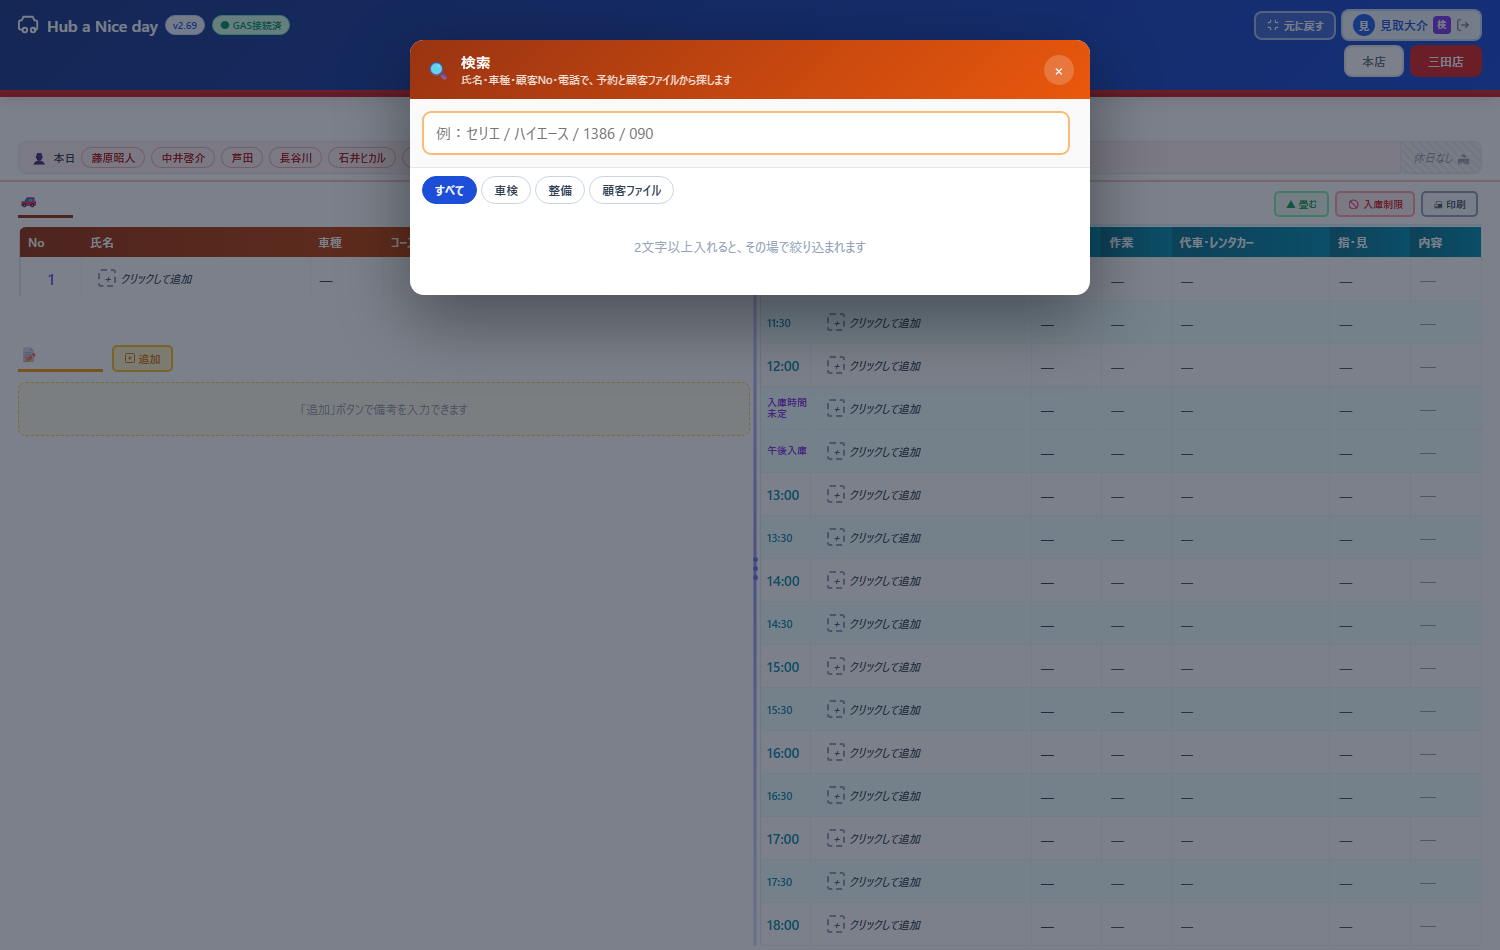
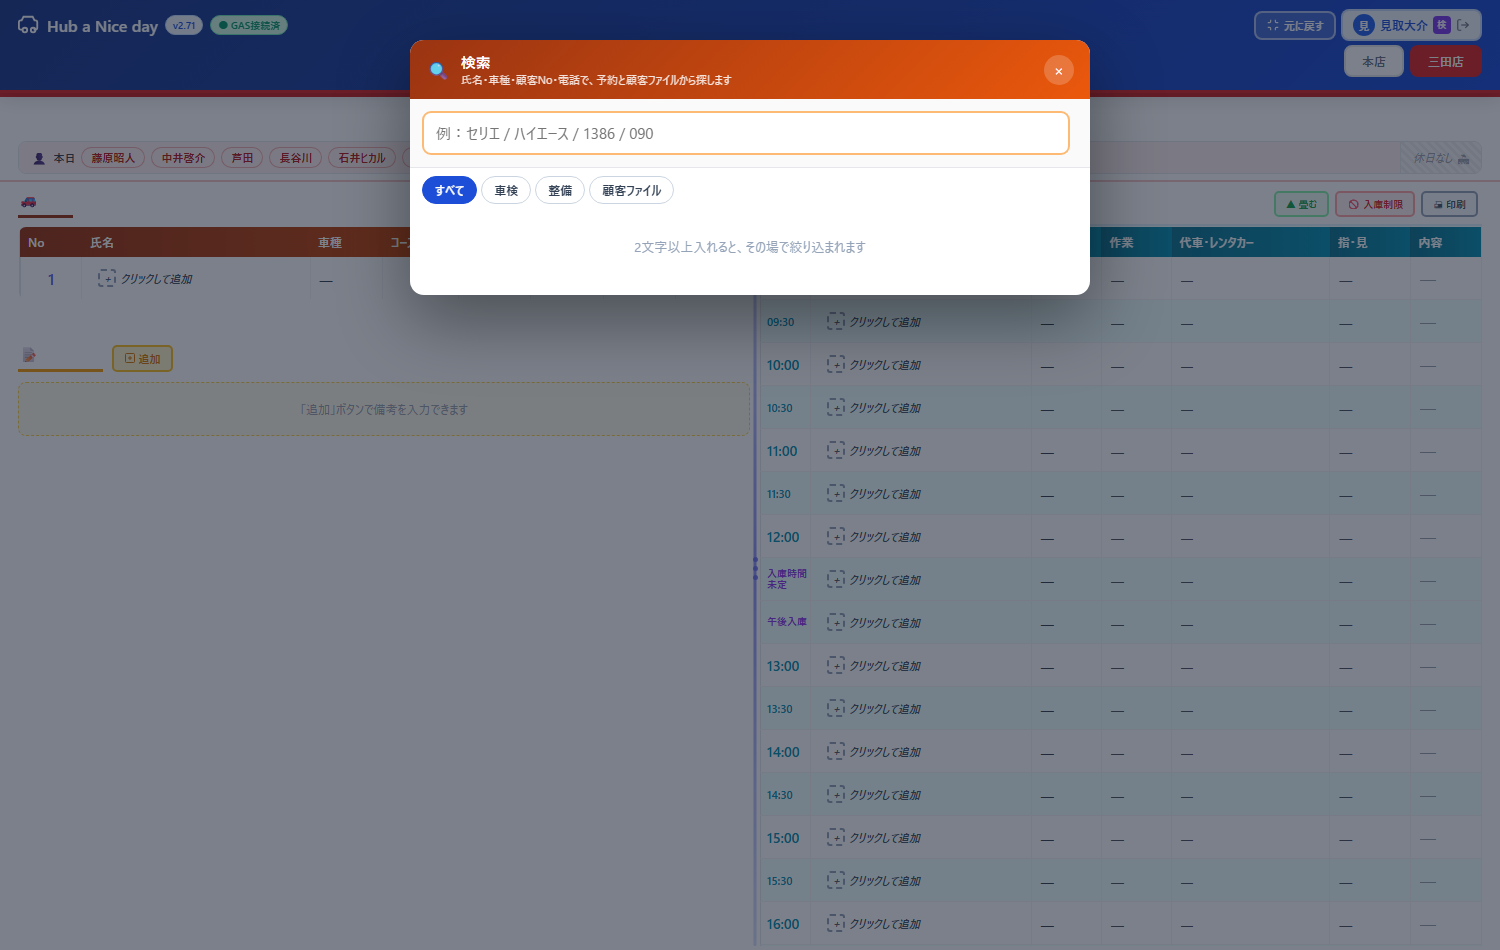
v2.71 タブの名前から「v1.0」を外す（Hub a Nice Day [テスト版]／メインは Hub a Nice Day）。port_to_main のタイトル規則も追従

diff --git a/index_dev.html b/index_dev.html
@@ -4,7 +4,7 @@
 <head>
   <meta charset="UTF-8" />
   <meta name="viewport" content="width=device-width, initial-scale=1.0, viewport-fit=cover" />
-  <title>Hub a Nice Day v1.0 [テスト版]</title>
+  <title>Hub a Nice Day [テスト版]</title>
   <meta name="theme-color" content="#1E3A5F" />
   <meta name="mobile-web-app-capable" content="yes" />
   <meta name="apple-mobile-web-app-capable" content="yes" />
@@ -22,7 +22,7 @@
     // 開きっぱなしのタブが旧コードのまま動き続けるのを防ぐ。画面復帰時と定期に自分自身を
     // no-store+クエリ付きで取得し、__APP_BUILD が変わっていれば「更新」バナーを表示する。
     // 本番デプロイ時は port_to_main.js が __APP_BUILD を自動更新する（手動更新不要）。
-    window.__APP_BUILD='build-1789999282865';
+    window.__APP_BUILD='build-1790035323464';
     (function(){
       var RUNNING=window.__APP_BUILD, shown=false, checking=false;
       function runningVer(){
@@ -121,7 +121,7 @@
 const { useState, useEffect, useLayoutEffect, useRef, useCallback, memo, useMemo } = React;
 
 // ★ バージョン管理：アップデートのたびにここだけ変更する
-const APP_VERSION = '2.70';
+const APP_VERSION = '2.71';
 // 本人認証を必須にするか。false の間は従来どおり名前を選ぶだけで入れる（移行期間）。
 //   false … 全員が今までどおり使える。端末の登録（＋スタッフを追加）は先にできる。
 //   true  … その端末で本人確認を済ませた人しかログイン画面に出ない。

diff --git a/customers.html b/customers.html
@@ -20,7 +20,7 @@
   // 開きっぱなしのタブが旧コードのまま動き続けるのを防ぐ。画面復帰時と定期に自分自身を
   // no-store+クエリ付きで取得し、__APP_BUILD が変わっていれば「更新」バナーを表示する。
   // 本番デプロイ時は port_to_main.js が __APP_BUILD を自動更新する（手動更新不要）。
-  window.__APP_BUILD='build-1789999282865';
+  window.__APP_BUILD='build-1790035323464';
   (function(){
     var RUNNING=window.__APP_BUILD, shown=false, checking=false;
     function runningVer(){
@@ -141,7 +141,7 @@ const hubRenew = async name => {};
 // index側の全画面オーバーレイ（iframe）内で開かれているか。埋め込み時は
 // 「スケジュールに戻る」がページ遷移ではなく親へのpostMessage（オーバーレイ閉鎖）になる。
 const IS_EMBED=(()=>{try{return window.self!==window.top;}catch(e){return true;}})();
-const APP_VERSION='2.70'; // 表示用バージョン。更新ごとに上げる（軽微+0.01／大型は整数を上げる）。index_dev.htmlと揃える
+const APP_VERSION='2.71'; // 表示用バージョン。更新ごとに上げる（軽微+0.01／大型は整数を上げる）。index_dev.htmlと揃える
 const storKey=(base,sid)=>`${STOR}${sid}-${base}`;
 const CHUNK_SIZE=100;
 // ファイル名をGASキーに使える形に変換

diff --git a/mobile.html b/mobile.html
@@ -17,7 +17,7 @@
   // 画面復帰時と定期に自分自身をno-storeで取得し、__APP_BUILDが変わっていれば更新バナーを表示する。
   // タップ時は cache:'reload' で新HTMLをHTTPキャッシュへ焼き直してから reload するので、確実に新版になる
   // （アプリを消したりURLを打ち直す必要はない）。本番デプロイ時は port_to_main.js が __APP_BUILD を自動更新する。
-  window.__APP_BUILD='build-1789999282865';
+  window.__APP_BUILD='build-1790035323464';
   (function(){
     var RUNNING=window.__APP_BUILD, shown=false, checking=false;
     function runningVer(){
@@ -90,7 +90,7 @@ input,select,textarea{font-family:inherit;font-size:16px;}
 <script id="app-jsx" type="text/plain">
 const {useState,useEffect,useCallback,useMemo,useRef,memo}=React;
 // ★ バージョン管理：システム全体で1つ。変更のたびにindex_dev.htmlのAPP_VERSIONと同値で0.01上げる
-const MOBILE_VERSION='2.70';
+const MOBILE_VERSION='2.71';
 // 本人認証を必須にするか。index_dev.html の AUTH_REQUIRED と必ず同じ値にすること。
 //   false … 従来どおり番号を打てば入れる（移行期間）。登録の入口だけ増える。
 //   true  … この端末で本人確認を済ませた人しか入れない。

diff --git a/admin.html b/admin.html
@@ -218,7 +218,7 @@ td.act{text-align:right;white-space:nowrap}
 //  この画面を開けるのは、許可簿（Firestore の meta/allowed）で role=admin の人だけ。
 //  ログインは Firebase Authentication のメールリンク（2026-09-18〜）。判定は Firestore のルールが行う。画面の申告は信用しない。
 // =====================================================================
-var APP_VERSION = '2.70';
+var APP_VERSION = '2.71';
 var GAS_URL     = 'https://script.google.com/macros/s/AKfycbyNE1eVKjibSPLEA0HrVZI8NxEFKWQfMYQ6cKoM1Gznauy9AhfZqHzgs1zzMaxXnQ1_/exec';
 // 環境の切り替え（2026-09-15）。この1ファイルで本番とDEVの両方を扱う。
 //   既定はDEV（安全側）。URLに ?env=prod が付いている時だけ本番のデータを扱う。

diff --git a/port_to_main.js b/port_to_main.js
@@ -23,7 +23,7 @@ const INDEX_RULES = [
   // 2026-09-18：本番も Firestore＋Firebase Auth（BACKEND='firebase'・AUTH_REQUIRED=true）。変換ルールは無し。
   //   本番のデータは fb_migrate.js --prod --write で写してから移植する（GAS 側はその時点で控えになる）。
   // タイトル
-  ['<title>Hub a Nice Day v1.0 [テスト版]</title>', '<title>Hub a Nice Day v1.0</title>', 1],
+  ['<title>Hub a Nice Day [テスト版]</title>', '<title>Hub a Nice Day</title>', 1],
   // 環境識別の配色: 全体背景・ログイン画面（オレンジ→青）
   ['linear-gradient(140deg,#7c2d12,#EA580C,#f97316)', 'linear-gradient(140deg,#1e3a8a,#1d4ed8,#2563eb)', 3],
   // ヘッダー背景（オレンジ単色→青グラデーション）

diff --git a/customers_dev.html b/customers_dev.html
@@ -3,7 +3,7 @@
 <head>
 <meta charset="UTF-8"/>
 <meta name="viewport" content="width=device-width, initial-scale=1.0, viewport-fit=cover"/>
-<title>Hub a Nice Day - 顧客リスト [DEV]</title>
+<title>Hub a Nice Day - 顧客リスト [テスト版]</title>
 <meta name="theme-color" content="#1E3A5F"/>
 <meta name="apple-mobile-web-app-capable" content="yes"/>
 <meta name="apple-mobile-web-app-status-bar-style" content="black-translucent"/>
